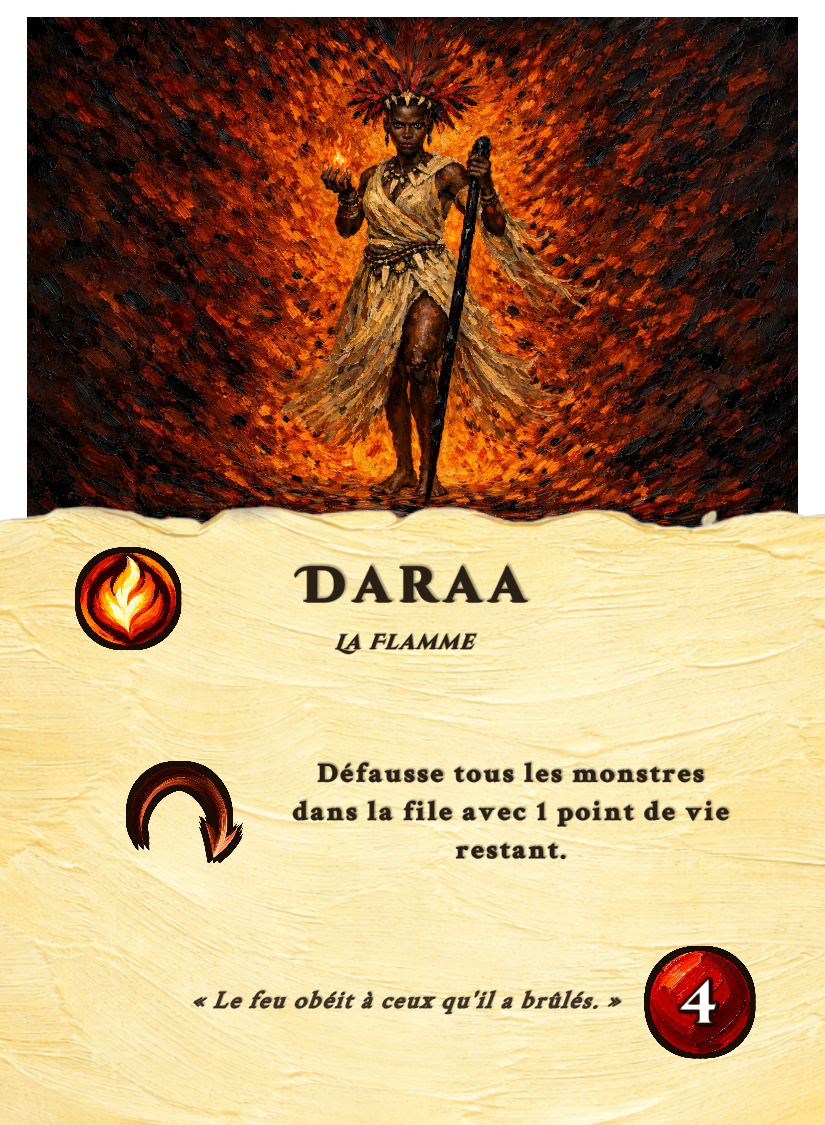
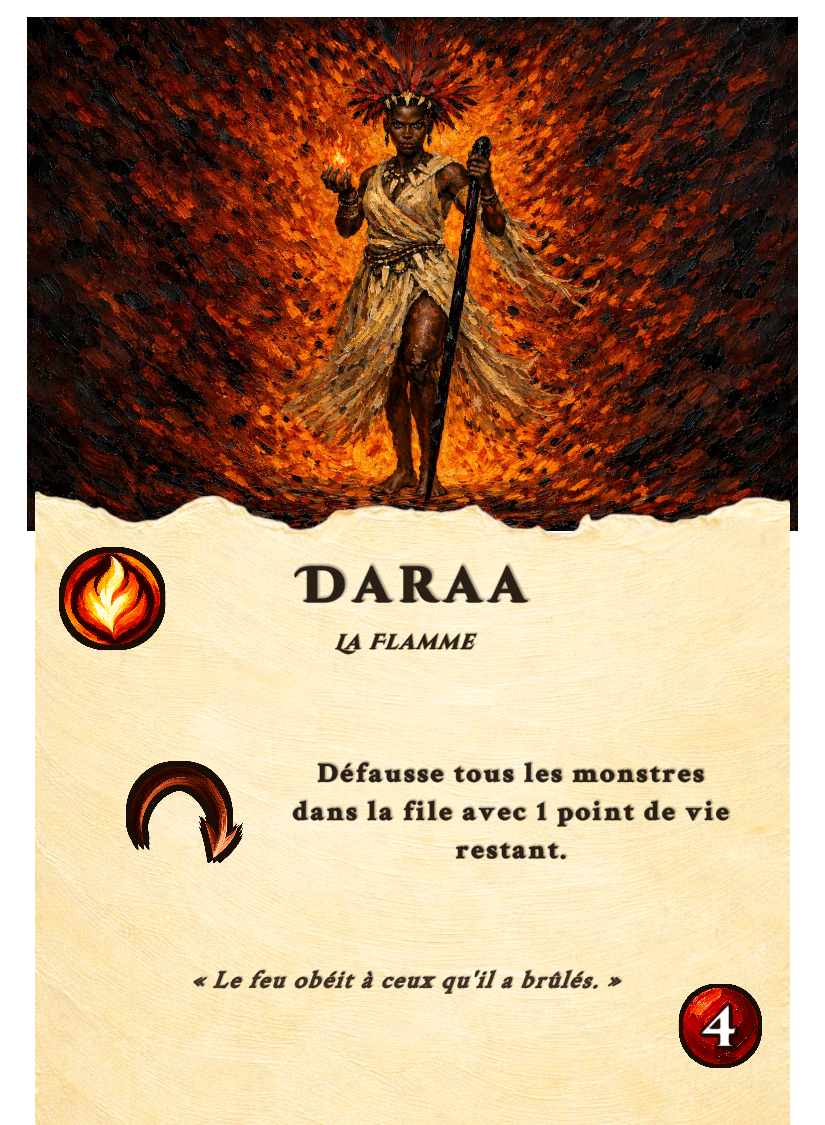
Refonte prompt recto Nawel : toki mapuche, contraste chaud/froid, style impasto renforcé
- Remplacement massue générique par toki (hache de pierre mapuche authentique)
- Format recto corrigé de 1:1 carré vers 3:2 paysage
- Nouveau prompt avec fond bleu acier dominant, contraste chaud/froid
- Bloc style impasto renforcé (profondeur physique, directions par zone)
- Ajout prompt de correction img2img pour image existante
- Assets visuels mis à jour (Daraa, Nawel, scène Heros)

Changed region(s): [[0.0, 0.4356, 1.0, 1.0], [0.1818, 0.7156, 0.2424, 0.7467]]

diff --git a/Docs/hero_nawel.md b/Docs/hero_nawel.md
@@ -58,18 +58,44 @@ Forbidden: uniform texture, grain filter effect, smooth painting, evenly distrib
 Character takes up about 60-70% of the frame, full body visible head to toe, environment with significant depth around and behind him.
 ```
 
-## Prompt RECTO (DALL-E, impasto, 1:1 carré, vignette)
+## Prompt RECTO (DALL-E, impasto, 3:2 paysage, vignette)
 
 ```
-Iconic medium close-up character portrait, square 1:1 format, DARK MOODY COMPOSITION. Same character as the verso: a strong Indigenous American warrior, deep copper brown skin, strong Indigenous features, high cheekbones, broad nose, weathered scarred face, deep blue war paint across one side of his face, long black hair tied back, blue feathers on his shoulders and headpiece. Wearing iron plates and thick leather armor, jaguar pelt cape on shoulders. Bust to upper body shot, holding his round shield with blue geometric sun patterns raised in front of him, shield catching the light. Determined fierce gaze directly at the viewer, eyes lit by the warm light source.
+Iconic character portrait, landscape 3:2 format. A powerful Indigenous American warrior of Mapuche descent standing firm and immovable on a rocky outcrop, holding a large round shield in front of his torso showing bold blue geometric sun patterns, and a TOKI — a traditional Mapuche stone war axe with a carved stone head bound to a wooden handle with leather straps — resting on his shoulder. Strong vertical centered pose, weight grounded, legs apart, like a wall nothing can move. 
 
-Background: VERY DARK, almost black. A deep shadow of charcoal and dark brown with only a faint warm golden rim light edge. NO sky, NO mountains, NO landscape details. Just darkness and smoke behind him, like he is emerging from shadow. The ONLY light is a strong warm source from the upper left hitting his face, shoulder, and shield — everything else falls into deep shadow. Think Rembrandt lighting on an impasto painting.
+Deep copper brown skin, strong Indigenous features, high cheekbones, broad nose, weathered scarred asymmetric face, deep blue war paint across one side of his face, long black hair tied back, blue feathers on his shoulders and headpiece. Wearing a mix of forged iron plates and thick leather armor with bone ornaments, a jaguar pelt cape draped over his shoulders. Determined fierce gaze directly at the viewer.
 
-IMPORTANT STYLE: This painting is made of VISIBLE INDIVIDUAL THICK PAINT STROKES, like a Leonid Afremov painting or Van Gogh's Starry Night. Each stroke is a separate long thick ribbon of oil paint, clearly distinct from the next stroke. Paint like toothpaste squeezed in long lines. Strokes have different sizes and directions, never uniform. The entire image must have the same thick paint stroke technique. Palette: deep steel blue, burnt sienna, warm ochre gold, charcoal black, dark brown, cream white. Palette knife and thick brush technique. Dramatic Rembrandt lighting — strong single light source from upper left, deep shadows on the opposite side, warm rim light on the figure edges. The blue of his war paint and shield should GLOW against the dark background.
+Background: A vast dramatic sky of DEEP STEEL BLUE — heavy storm clouds in shades of steel blue and charcoal, with streaks of warm golden light breaking through from behind the figure. Below the horizon line: distant dark mountain silhouettes and faint jungle canopy, kept very simple and dark. The sky dominates 60% of the background. The blue must be a DOMINANT COLOR MASS across the entire image — cold, powerful, oppressive. The landscape is suggested, not detailed.
 
-Forbidden: uniform texture, grain filter, smooth painting, AI-style neat strokes, bright background, visible sky, landscape behind character, busy background, multiple light sources.
+Strong warm golden rim light from the left hitting his skin and armor, creating HIGH CONTRAST against the cold blue sky and background. His skin and armor should be WARM (ochre, burnt sienna, gold highlights) while the sky and environment are COLD (deep steel blue, charcoal, dark teal). This warm/cold contrast is the key to readability.
 
-Character takes up about 85% of the frame, tightly framed, simple very dark background.
+CRITICAL STYLE — THIS IS THE MOST IMPORTANT PART: This painting MUST look like REAL THICK OIL PAINT applied with a palette knife and wide brush. Every single square centimeter of the image is made of VISIBLE INDIVIDUAL THICK PAINT STROKES — like a Leonid Afremov painting or Van Gogh's Starry Night. Each stroke is a separate long thick ribbon of oil paint, clearly distinct from the next stroke. The paint looks like toothpaste squeezed in long lines onto the canvas. You should be able to COUNT individual strokes one by one. Strokes have DIFFERENT sizes, directions, and thicknesses — NEVER uniform, NEVER systematic, NEVER evenly distributed. Some strokes are big fat and thick, others are thin and short. Strokes overlap chaotically in some areas, while in other areas there are empty gaps between strokes where raw canvas texture shows through. The paint has PHYSICAL DEPTH — you can see ridges, peaks, and valleys in the thick paint surface, as if the painting has real 3D relief. The paint builds form through deliberate directional lines following the contours of the body, clouds, and rocks — NOT blended smoothly. The sky strokes go in sweeping horizontal and diagonal directions. The armor strokes follow the metal curves. The skin strokes follow the muscle shapes. The ENTIRE image — character, sky, ground, shield, cape, EVERYTHING — must have the SAME level of thick impasto paint. The character must NOT be smoother or more detailed than the background. Palette: deep steel blue, burnt sienna, warm ochre gold, charcoal black, dark brown, cream white. Dramatic lighting with strong warm light source creating bright thick paint highlights and deep shadowed strokes.
+
+Forbidden: uniform texture, grain filter effect, smooth painting, soft blending, evenly distributed brushwork, digital painting with impasto filter applied on top, AI-style neat organized strokes, smooth character on textured background, character blending into background, beautiful face, model face, photorealistic skin, airbrush effect, any area that looks smooth or digitally painted.
+
+Character takes up about 70% of the frame, strong readable silhouette, must be instantly recognizable at thumbnail size.
+```
+
+## Prompt CORRECTION RECTO (DALL-E, img2img avec upload)
+
+> Uploader l'image recto actuelle de Nawel, puis utiliser ce prompt :
+
+```
+This is an existing impasto oil painting of an Indigenous warrior with a blue shield. Recreate this image with these CRITICAL changes:
+
+1. BACKGROUND: Replace the detailed mountain/jungle landscape with a vast DEEP STEEL BLUE dramatic sky — heavy storm clouds in steel blue and charcoal, with streaks of warm golden light breaking through. Below the horizon: distant dark mountain silhouettes and faint jungle canopy, kept very simple and dark. The sky dominates 60% of the background as a dominant blue color mass.
+
+2. WEAPON: Replace the war club/mace with a TOKI — a traditional Mapuche stone war axe with a carved stone head bound to a wooden handle with leather straps — resting on his shoulder.
+
+3. POSE: Keep the same character but shift to a more STATIC ICONIC pose — standing firm, shield planted in front showing the blue sun pattern, toki resting on shoulder. Strong vertical centered silhouette, not action pose. Think immovable wall.
+
+4. CONTRAST: Make the character WARM (ochre skin, golden rim light, sienna armor) against the COLD blue sky. Strong warm light from the left hitting his face and armor. High contrast between warm figure and cold background. The character must POP against the blue, not blend in.
+
+5. FRAMING: Character takes up 70% of the frame. Tighter crop, less environment, more presence.
+
+6. KEEP: Same impasto thick paint stroke style, same character design (blue war paint, feathers, iron armor, jaguar cape, Indigenous features), same palette knife technique. Do NOT smooth the painting.
+
+Forbidden: character blending into background, smooth digital painting, uniform texture, action pose with arms spread, busy detailed landscape.
 ```
 
 ## Notes
